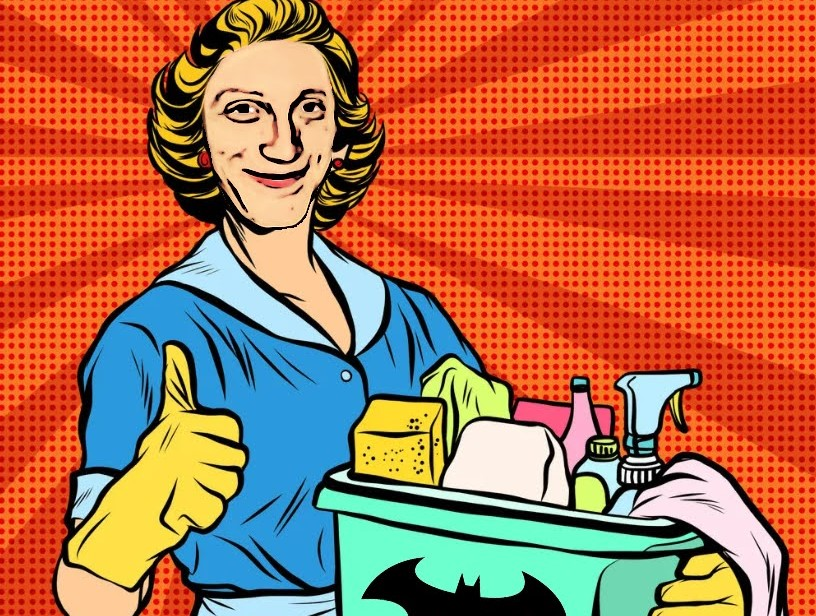
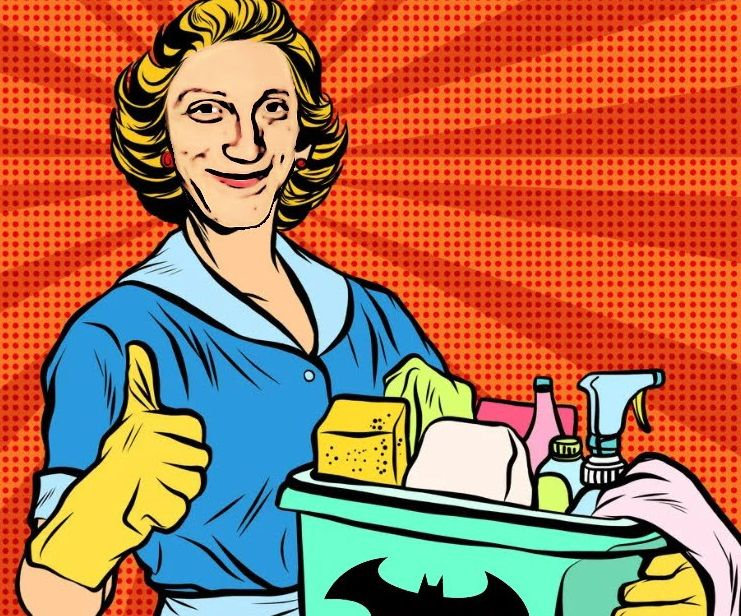
Fixat nya bilder, bra storlek + jämna

diff --git a/index.html b/index.html
@@ -346,9 +346,10 @@
           </div>
           <div class="row">
             <div class="portfolio-heading padd-15">
-              <h2>My Last Projects :</h2>
+              <h2>My Last Website Projects :</h2>
             </div>
           </div>
+
           <div class="row">
             <!-- === Portfolio item start === -->
             <div class="portfolio-item padd-15">
@@ -363,7 +364,7 @@
             <div class="portfolio-item padd-15">
               <div class="portfolio-item-inner shadow-dark">
                 <div class="portfolio-img">
-                  <img src="images/portfolio/project2.jpg" alt="Photoshop work">
+                  <img src="images/portfolio/projekt2.jpg" alt="screenshot website">
                 </div>
               </div>
             </div>
@@ -372,16 +373,34 @@
             <div class="portfolio-item padd-15">
               <div class="portfolio-item-inner shadow-dark">
                 <div class="portfolio-img">
-                  <img src="images/portfolio/project3.png" alt="Photoshop work">
+                  <img src="images/portfolio/projekt3.jpg" alt="Screenshot figma prototype">
                 </div>
               </div>
             </div>
             <!-- === Portfolio item end === -->
+          </div>
+
+          <div class="row">
+            <div class="portfolio-heading padd-15">
+              <h2>My Last Photoshop Projects :</h2>
+            </div>
+          </div>
+
+          <div class="row">
             <!-- === Portfolio item start === -->
             <div class="portfolio-item padd-15">
               <div class="portfolio-item-inner shadow-dark">
                 <div class="portfolio-img">
                   <img src="images/portfolio/project4.jpg" alt="Photoshop work">
+                </div>
+              </div>
+            </div>
+            <!-- === Portfolio item end === -->
+            <!-- === Portfolio item start === -->
+            <div class="portfolio-item padd-15">
+              <div class="portfolio-item-inner shadow-dark">
+                <div class="portfolio-img">
+                  <img src="images/portfolio/project2.jpg" alt="Photoshop work">
                 </div>
               </div>
             </div>
